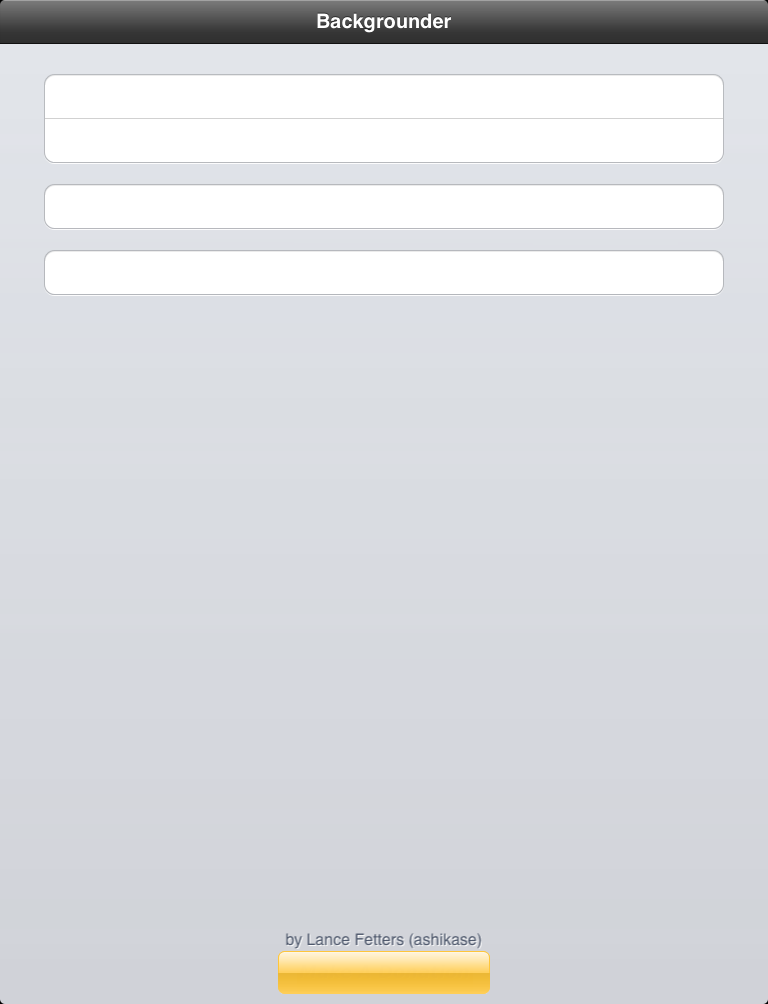
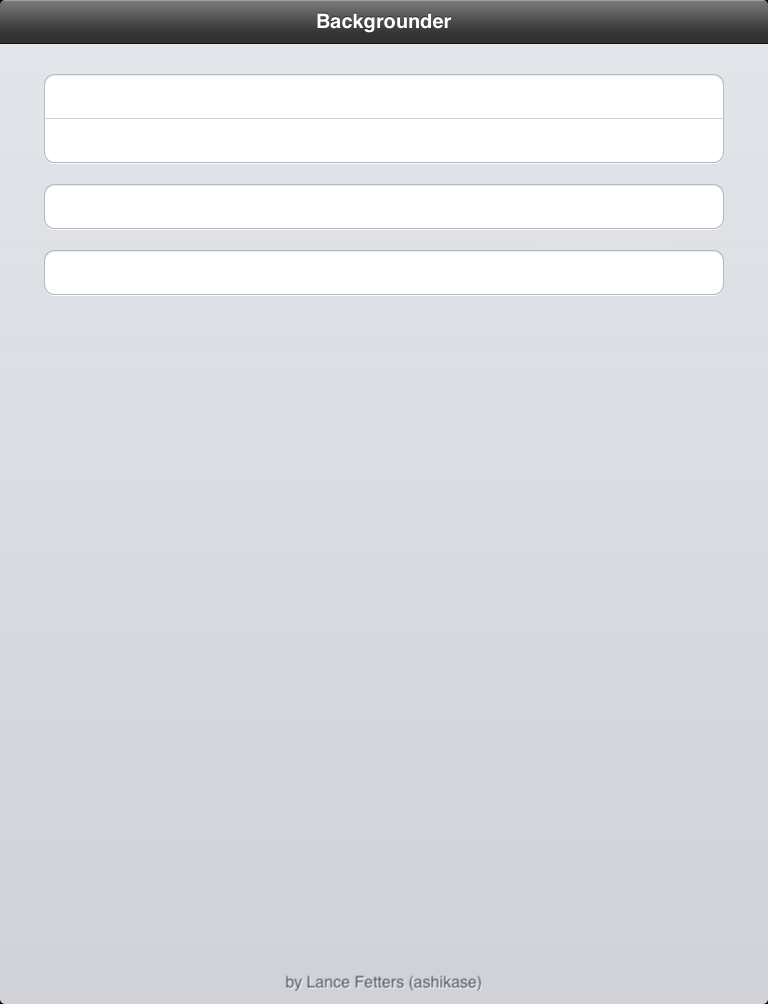
Prefs: Disabled donation button.

Changed region(s): [[0.3438, 0.9263, 0.6562, 1.0]]

diff --git a/Preferences/RootController.m b/Preferences/RootController.m
@@ -3,7 +3,7 @@
  * Type: iPhone OS SpringBoard extension (MobileSubstrate-based)
  * Description: allow applications to run in the background
  * Author: Lance Fetters (aka. ashikase)
- * Last-modified: 2010-08-08 18:25:31
+ * Last-modified: 2011-04-05 22:44:00
  */
 
 /**
@@ -94,14 +94,17 @@
     UIView *view = [[UIView alloc] initWithFrame:
         CGRectMake(0, 0, appFrame.size.width, appFrame.size.height - 44.0f - height)];
 
+    UIImage *image = nil;
+#if 0
     // Donation button
     UIButton *button = [UIButton buttonWithType:UIButtonTypeCustom];
     [button addTarget:self action:@selector(openDonationLink) forControlEvents:UIControlEventTouchUpInside];
-    UIImage *image = [UIImage imageNamed:@"donate.png"];
+    image = [UIImage imageNamed:@"donate.png"];
     [button setImage:image forState:UIControlStateNormal];
     button.frame = CGRectMake((appFrame.size.width - image.size.width) / 2.0f, view.bounds.size.height - image.size.height - 10.0f,
             image.size.width, image.size.height);
     [view addSubview:button];
+#endif
 
     // Note height of donation button
     float donationHeight = image.size.height;
